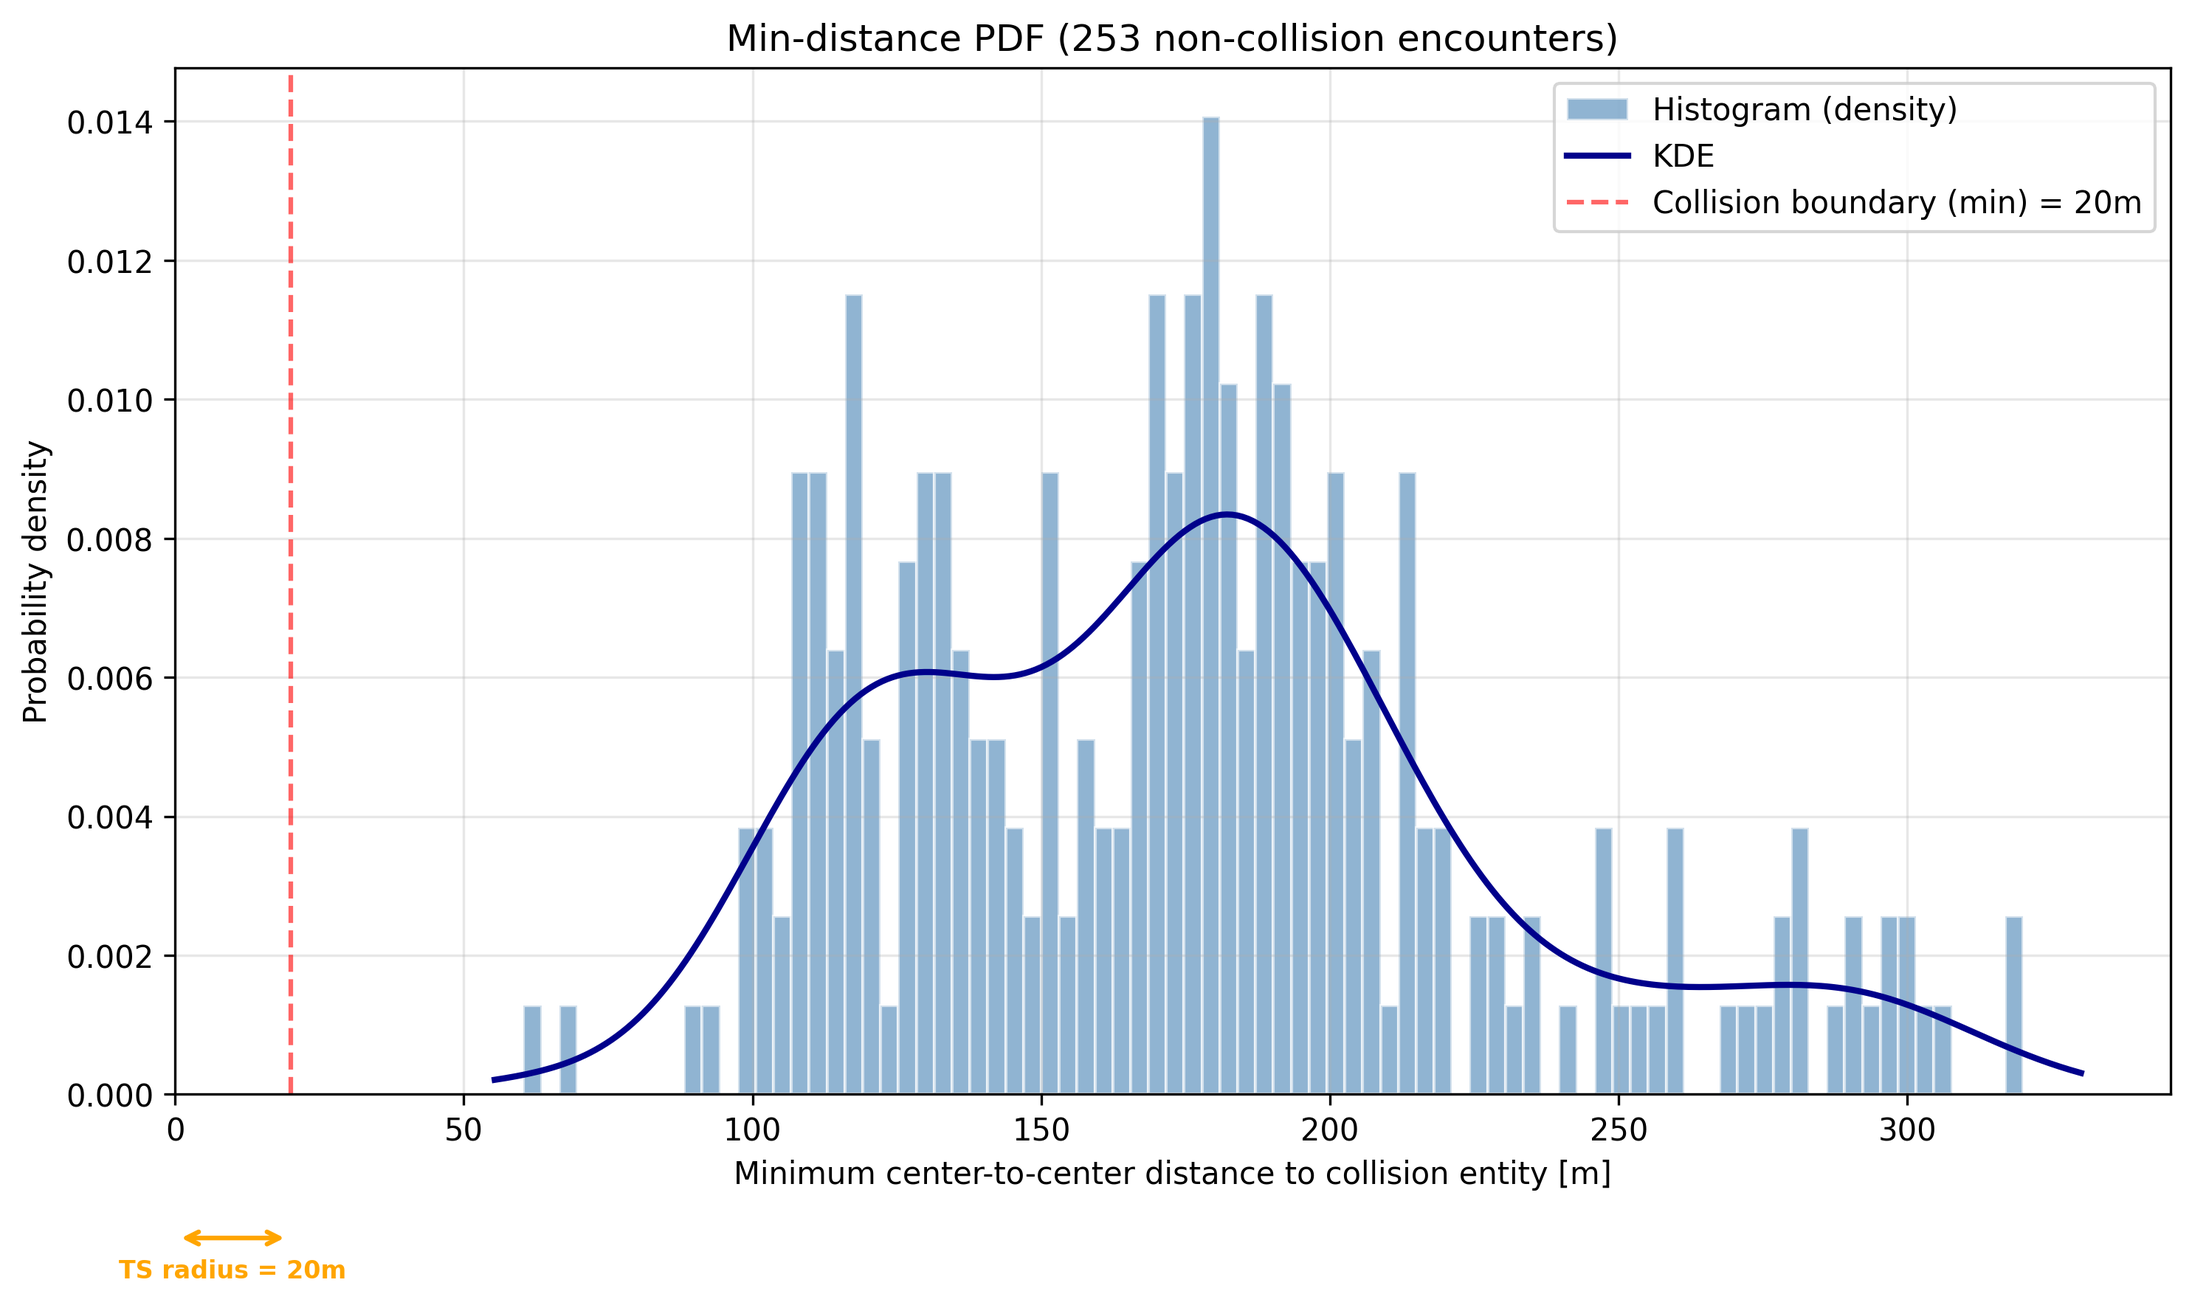
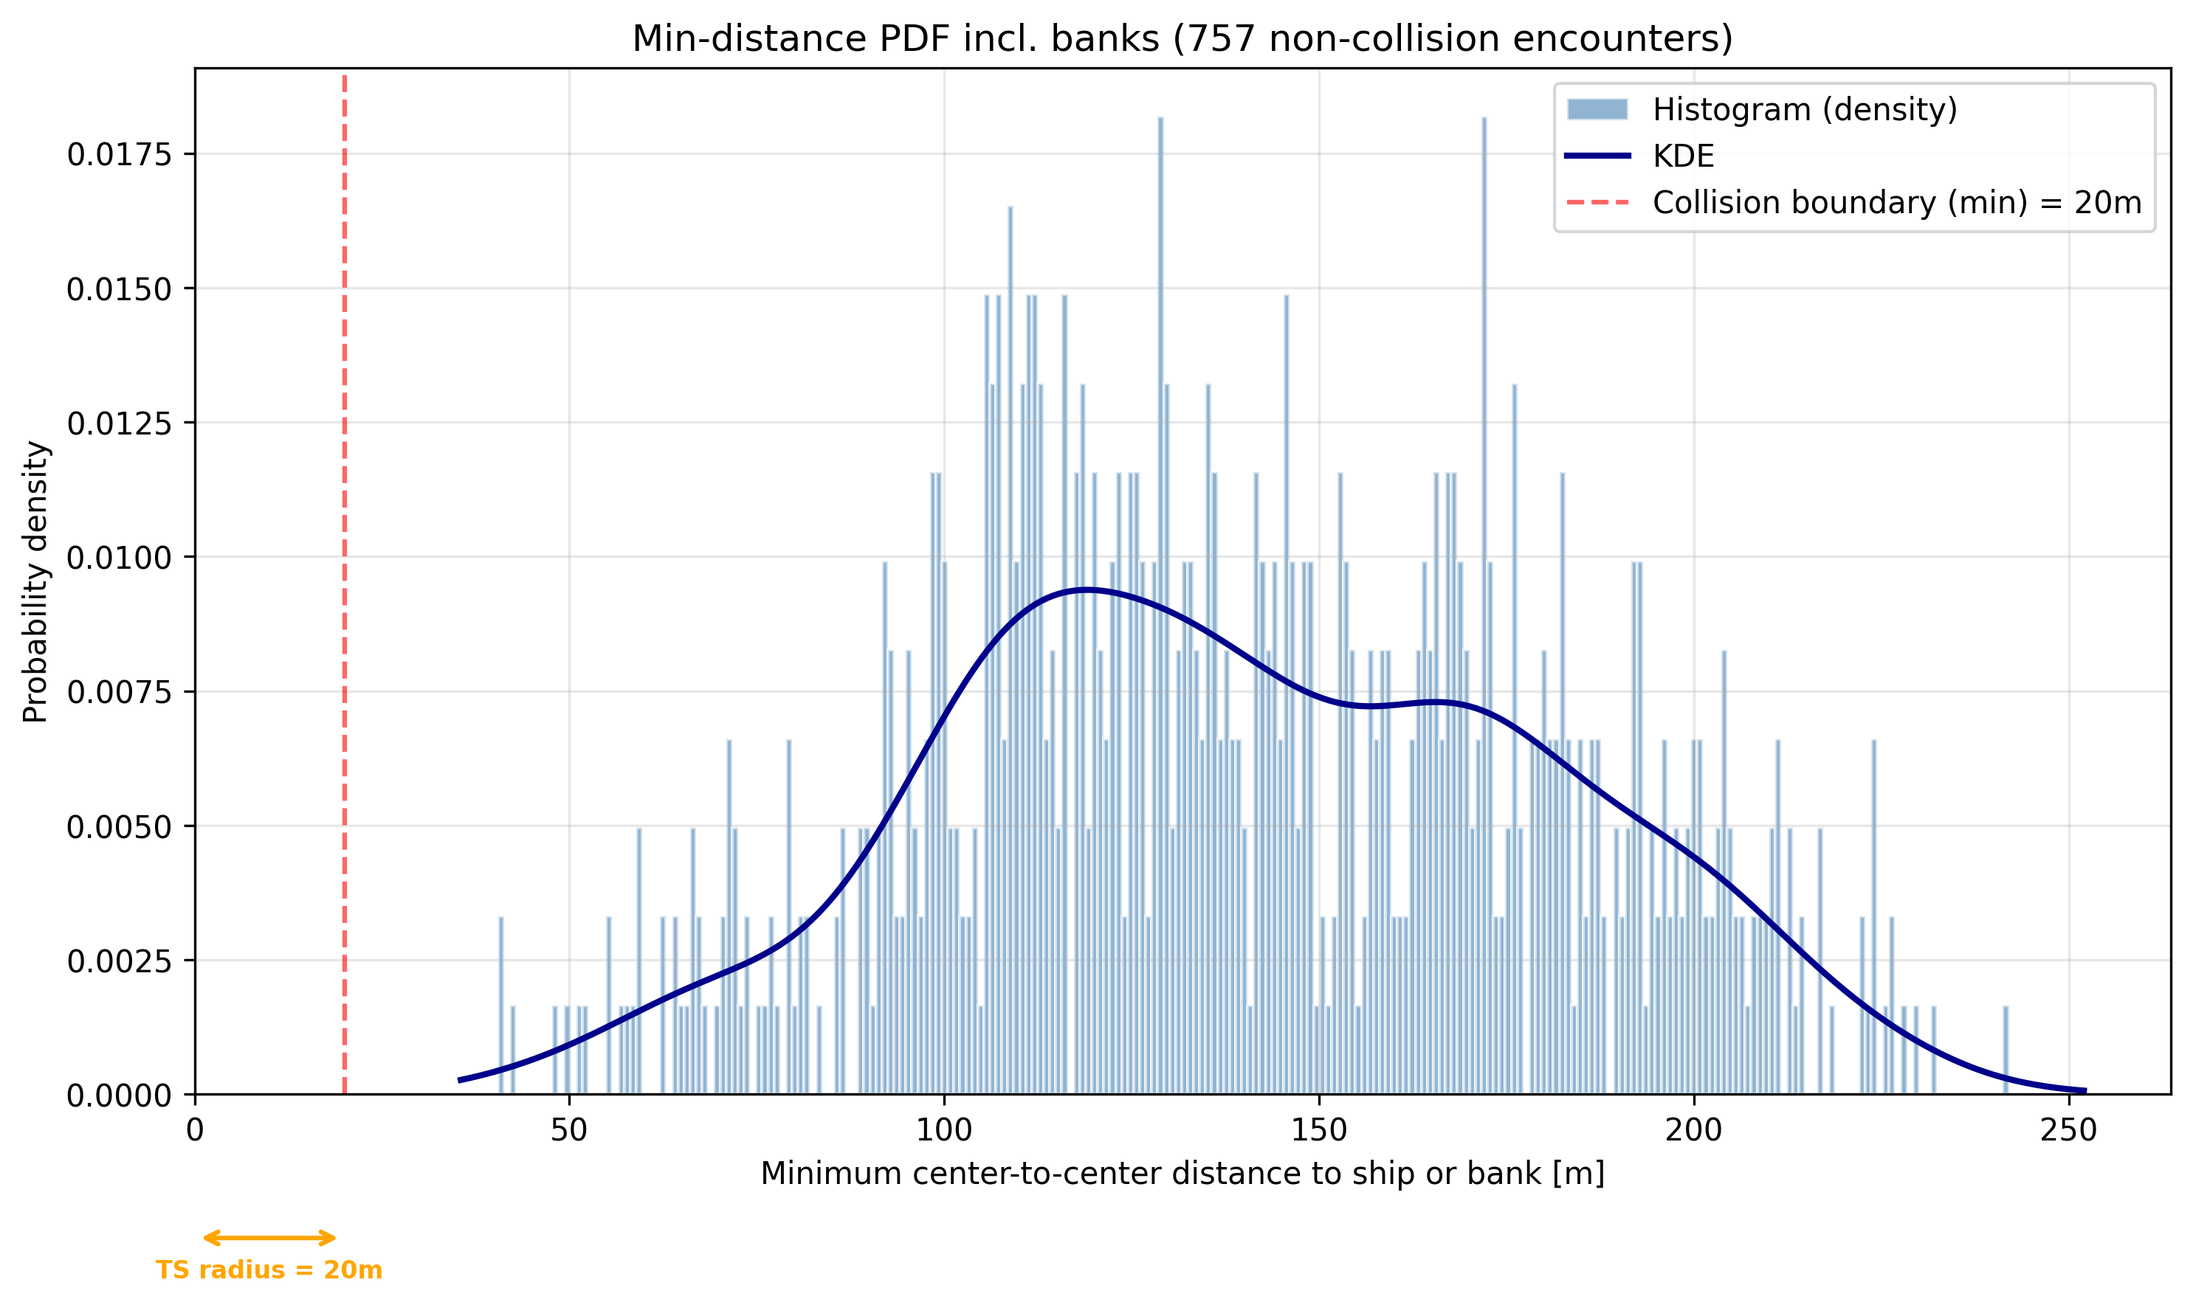
added trajectory visualization at encounter

diff --git a/src/fw/environments/py_sim_colav_base.py b/src/fw/environments/py_sim_colav_base.py
@@ -31,6 +31,7 @@ from typing import Optional, Tuple, Dict
 from fw.ships.ship_factory import ShipModel
 from fw.dynamics.dynamics_model import Model
 import numpy as np
+from shapely.geometry import Point
 
 
 # -----------------------
@@ -89,6 +90,7 @@ class PySimColavBaseEnv(PySimEnv):
             wind: bool = False,
             current: bool = False,
             numerical_damping: bool = False,
+            minimal_path_render: bool = False,
             # COLAV configuration
             enable_obstacles: bool = True,
             enable_variable_ship_size: bool = False,
@@ -190,6 +192,7 @@ class PySimColavBaseEnv(PySimEnv):
         # or on episode reset / terminal step if mid-encounter.
         self._in_encounter: bool = False
         self._current_encounter_min_dist: float = float("inf")
+        self._current_encounter_min_dist_bank: float = float("inf")
         self._current_encounter_collided: bool = False
 
         self._last_collision_info = {}
@@ -240,6 +243,7 @@ class PySimColavBaseEnv(PySimEnv):
             wind=wind,
             current=current,
             numerical_damping=numerical_damping,
+            minimal_path_render=minimal_path_render,
         )
 
         # Scenario builder
@@ -374,6 +378,12 @@ class PySimColavBaseEnv(PySimEnv):
                     self._current_episode_min_dist = dist
                 if self._in_encounter and dist < self._current_encounter_min_dist:
                     self._current_encounter_min_dist = dist
+
+        # Track minimum distance to bank (polygon boundary) within an encounter.
+        if self._in_encounter and getattr(self, "polygon_shape", None) is not None:
+            d_bank = float(self.polygon_shape.boundary.distance(Point(self.ship_pos)))
+            if d_bank < self._current_encounter_min_dist_bank:
+                self._current_encounter_min_dist_bank = d_bank
 
         # Post-entity-step hook (subclass: e.g. rebuild polar geometries)
         self._on_entities_stepped()
@@ -546,6 +556,7 @@ class PySimColavBaseEnv(PySimEnv):
         # still False); we begin accumulating from the next step.
         self._in_encounter = True
         self._current_encounter_min_dist = float("inf")
+        self._current_encounter_min_dist_bank = float("inf")
         self._current_encounter_collided = False
 
         # Always record the encounter start so n_encounters is correct.
@@ -557,6 +568,7 @@ class PySimColavBaseEnv(PySimEnv):
             "gt": gt_ext,
             "pred": pred_ext,
             "min_dist": float("inf"),
+            "min_dist_bank": float("inf"),
             "collided": False,
         })
 
@@ -567,9 +579,11 @@ class PySimColavBaseEnv(PySimEnv):
             return
         rec = self._episode_encounters[-1]
         rec["min_dist"] = float(self._current_encounter_min_dist)
+        rec["min_dist_bank"] = float(self._current_encounter_min_dist_bank)
         rec["collided"] = bool(self._current_encounter_collided)
         self._in_encounter = False
         self._current_encounter_min_dist = float("inf")
+        self._current_encounter_min_dist_bank = float("inf")
         self._current_encounter_collided = False
 
     # ---------------------------
@@ -991,16 +1005,25 @@ class PySimColavBaseEnv(PySimEnv):
             mid_x = (os_p[0] + ts_p[0]) / 2.0
             mid_y = (os_p[1] + ts_p[1]) / 2.0
             dist_text = self.ax.text(
-                mid_x, mid_y, f"{dist:.0f}m", fontsize=7, color='gray',
+                mid_x, mid_y, f"{dist:.0f}m", fontsize=12, color='gray',
                 fontweight='bold', ha='center', va='bottom', zorder=6,
             )
-            os_label = self.ax.text(
-                os_p[0] + 2, os_p[1] + 2, "OS", fontsize=7, color='blue',
-                fontweight='bold', ha='center', va='top', zorder=6,
+            kind = snap.get("kind", "passed")
+            tag = "Start" if kind == "start" else "Passed"
+            # Place labels fully below the marker circles (markersize=12 ->
+            # ~6pt radius; offset in points via xytext keeps it consistent
+            # regardless of axis scale).
+            os_label = self.ax.annotate(
+                f"{tag}", xy=(os_p[0], os_p[1]),
+                xytext=(0, -10), textcoords='offset points',
+                fontsize=12, color='blue',
+                ha='center', va='top', zorder=6,
             )
-            ts_label = self.ax.text(
-                ts_p[0] + 2, ts_p[1] + 2, "TS", fontsize=7, color='red',
-                fontweight='bold', ha='center', va='top', zorder=6,
+            ts_label = self.ax.annotate(
+                f"{tag}", xy=(ts_p[0], ts_p[1]),
+                xytext=(0, -10), textcoords='offset points',
+                fontsize=12, color='red',
+                ha='center', va='top', zorder=6,
             )
             self._passing_snapshot_artists.append(
                 (os_marker, ts_marker, dist_line, dist_text, os_label, ts_label)

diff --git a/src/fw/environments/py_sim_colav_env.py b/src/fw/environments/py_sim_colav_env.py
@@ -67,6 +67,7 @@ class PySimColavPolarEnv(PySimColavBaseEnv):
             pathfollowing_encounter_steps: int = 75,
             skip_tail_segments: int = 10,
             random_segment_start: bool = True,
+            minimal_path_render: bool = False,
             **kwargs,
     ) -> None:
         # Polar scan configuration
@@ -142,6 +143,7 @@ class PySimColavPolarEnv(PySimColavBaseEnv):
             obstacle_weights=obstacle_weights,
             scenario_obstacle_level=scenario_obstacle_level,
             ground_truth_classification=ground_truth_classification,
+            minimal_path_render=minimal_path_render,
         )
 
         self.polar_scan_cached = None
@@ -480,12 +482,24 @@ class PySimColavPolarEnv(PySimColavBaseEnv):
         if (
             self.ts_idx is not None
             and self.ts_idx < len(self.collision_entities)
-            and clf.label in ("head-on", "crossing-right")
+            and clf.label in ("head-on", "crossing-right", "overtaking")
         ):
             ts = self.collision_entities[self.ts_idx]
             os_pos_now = self.ship_pos
             ts_pos_now = ts.get_position()
             signal = ts.passing_signal(os_pos_now, clf.label)
+
+            # Encounter-start snapshot (first step we observe this TS in a
+            # tracked encounter scenario).
+            if self._prev_passing_ts_idx != self.ts_idx:
+                self._passing_snapshots.append({
+                    "os_pos": np.asarray(os_pos_now, dtype=np.float32),
+                    "ts_pos": np.asarray(ts_pos_now, dtype=np.float32),
+                    "dist": float(np.linalg.norm(os_pos_now - ts_pos_now)),
+                    "scenario": clf.label,
+                    "kind": "start",
+                })
+
             prev = self._prev_passing_signal
             if (
                 prev is not None
@@ -507,6 +521,7 @@ class PySimColavPolarEnv(PySimColavBaseEnv):
                     "ts_pos": np.asarray(ts_at, dtype=np.float32),
                     "dist": float(np.linalg.norm(os_at - ts_at)),
                     "scenario": clf.label,
+                    "kind": "passed",
                 })
             self._prev_passing_signal = signal
             self._prev_passing_ts_idx = self.ts_idx
@@ -568,6 +583,22 @@ class PySimColavPolarEnv(PySimColavBaseEnv):
                 )
                 self.polar_beams.append(beam_line)
 
+        # Override the legend with a curated, fixed set of entries (proxy
+        # artists, so they don't depend on which artists got auto-labeled).
+        from matplotlib.lines import Line2D
+        legend_handles = [
+            Line2D([0], [0], marker='o', color='none', markerfacecolor='blue',
+                   markersize=8, label='Own ship'),
+            Line2D([0], [0], marker='o', color='none', markerfacecolor='red',
+                   markersize=8, label='Target ship'),
+            Line2D([0], [0], color='green', alpha=0.2, linewidth=1.0,
+                   label='Path'),
+            Line2D([0], [0], color='blue', linewidth=1.5, label='OS trajectory'),
+            Line2D([0], [0], color='red', linewidth=1.5, linestyle='--',
+                   label='TS trajectory'),
+        ]
+        self.ax.legend(handles=legend_handles, loc='best')
+
     def _render_subclass(self, heading: float) -> None:
         """Update polar beam rendering."""
         if self.use_polar_scan and getattr(self, "polar_beams", None):
@@ -601,9 +632,12 @@ class PySimColavPolarEnv(PySimColavBaseEnv):
         self,
         pdf_save_path: str = "min_distance_PDF.png",
         boxplot_save_path: str = "min_distance_boxplots.png",
+        include_banks: bool = True,
     ) -> None:
         from fw.collision_avoidance.colav_statistics import plot_min_distance_stats
-        plot_min_distance_stats(self, pdf_save_path, boxplot_save_path)
+        plot_min_distance_stats(
+            self, pdf_save_path, boxplot_save_path, include_banks=include_banks
+        )
 
     def plot_scenario_confusion_matrix(
         self,

diff --git a/src/fw/environments/py_sim_env.py b/src/fw/environments/py_sim_env.py
@@ -123,6 +123,7 @@ class PySimEnv(BaseEnv):
             wind: bool = False,
             current: bool = False,
             numerical_damping: bool = False,
+            minimal_path_render: bool = False,
     ) -> None:
         """
         Initialize the ship navigation environment.
@@ -146,6 +147,7 @@ class PySimEnv(BaseEnv):
         # Core parameters
         self.wind = bool(wind)
         self.current = bool(current)
+        self.minimal_path_render = bool(minimal_path_render)
         self.start_pos = start_pos
         self.ship_model = ship_model
         self.max_steps = int(max_steps)
@@ -1299,21 +1301,30 @@ class PySimEnv(BaseEnv):
         # Path: start with ship_pos followed by checkpoints and target
         path_points = [self.ship_pos] + [cp['pos'] for cp in self.checkpoints] + [self.target_pos]
 
-        for i in range(len(path_points) - 1):
-            start_point = path_points[i]
-            end_point = path_points[i + 1]
-            # label only the first segment to avoid duplicate legend entries
-            self.ax.plot([start_point[0], end_point[0]], [start_point[1], end_point[1]],
-                         'g-', label='Path' if i == 0 else "")
+        if getattr(self, "minimal_path_render", False):
+            print("minimal path render")
+            # Faint single-line path only — no checkpoint circles, no perp lines.
+            xs = [p[0] for p in path_points]
+            ys = [p[1] for p in path_points]
+            self.ax.plot(xs, ys, color='green', alpha=0.2,
+                         linewidth=1.0, label='Path')
+        else:
+            print("no minimal path render")
+            for i in range(len(path_points) - 1):
+                start_point = path_points[i]
+                end_point = path_points[i + 1]
+                # label only the first segment to avoid duplicate legend entries
+                self.ax.plot([start_point[0], end_point[0]], [start_point[1], end_point[1]],
+                             'g-', label='Path' if i == 0 else "")
 
-        # Draw checkpoint patches and perpendicular lines
-        for i, checkpoint in enumerate(self.checkpoints):
-            circle = patches.Circle((checkpoint['pos'][0], checkpoint['pos'][1]),
-                                    10.0, color='black', alpha=0.3)
-            self.ax.add_patch(circle)
-            start_point, end_point = checkpoint['perpendicular_line']
-            self.ax.plot([start_point[0], end_point[0]], [start_point[1], end_point[1]],
-                         'g-', label='PerpLine' if i == 0 else "")
+            # Draw checkpoint patches and perpendicular lines
+            for i, checkpoint in enumerate(self.checkpoints):
+                circle = patches.Circle((checkpoint['pos'][0], checkpoint['pos'][1]),
+                                        10.0, color='black', alpha=0.3)
+                self.ax.add_patch(circle)
+                start_point, end_point = checkpoint['perpendicular_line']
+                self.ax.plot([start_point[0], end_point[0]], [start_point[1], end_point[1]],
+                             'g-', label='PerpLine' if i == 0 else "")
 
         # Draw polygons for environment outlines
         polygon_patch = patches.Polygon(self.obstacles, closed=True, edgecolor='r',

diff --git a/src/fw/collision_avoidance/colav_statistics.py b/src/fw/collision_avoidance/colav_statistics.py
@@ -17,6 +17,7 @@ def plot_min_distance_stats(
     env,
     pdf_save_path: str = "min_distance_PDF.png",
     boxplot_save_path: str = "min_distance_boxplots.png",
+    include_banks: bool = False,
 ) -> None:
     """Plot encounter-level min-distance statistics.
 
@@ -25,6 +26,11 @@ def plot_min_distance_stats(
         aggregated across all non-collision encounters (no per-policy split).
       * ``boxplot_save_path`` — per-policy/scenario boxplots of the same
         min-distance values, bucketed by the encounter's ground-truth label.
+
+    When ``include_banks`` is True, the per-encounter distance is the minimum
+    of the closest target-ship distance and the closest distance to the bank
+    (polygon boundary) observed during the encounter; otherwise only
+    target-ship distance is used.
 
     Only encounters that did not end in collision are included.
     """
@@ -39,6 +45,8 @@ def plot_min_distance_stats(
     all_distances: list[float] = []
     for enc in encounters:
         md = enc.get("min_dist", float("inf"))
+        if include_banks:
+            md = min(md, enc.get("min_dist_bank", float("inf")))
         if enc.get("collided", False) or md is None or md == float("inf"):
             continue
         gt = enc.get("gt") or "unknown"
@@ -61,6 +69,7 @@ def plot_min_distance_stats(
         os_r, ts_r_min, ts_r_max, variable_ts,
         collision_dist_min, collision_dist_max,
         pdf_save_path,
+        include_banks=include_banks,
     )
     _plot_min_distance_boxplots(
         per_policy,
@@ -78,6 +87,7 @@ def _plot_min_distance_pdf(
     collision_dist_min: float,
     collision_dist_max: float,
     save_path: str,
+    include_banks: bool = False,
 ) -> None:
     fig, ax = plt.subplots(figsize=(10, 6))
 
@@ -137,9 +147,14 @@ def _plot_min_distance_pdf(
     ax.set_ylim(bottom=0)
     ax.set_xlim(left=0)
 
-    ax.set_xlabel("Minimum center-to-center distance to collision entity [m]")
+    xlabel_target = "ship or bank" if include_banks else "collision entity"
+    ax.set_xlabel(f"Minimum center-to-center distance to {xlabel_target} [m]")
     ax.set_ylabel("Probability density")
-    ax.set_title(f"Min-distance PDF ({len(distances)} non-collision encounters)")
+    title_suffix = " incl. banks" if include_banks else ""
+    ax.set_title(
+        f"Min-distance PDF{title_suffix} "
+        f"({len(distances)} non-collision encounters)"
+    )
     ax.legend(loc="upper right")
     ax.grid(True, alpha=0.3)
 

diff --git a/src/fw/collision_avoidance/collision_entity.py b/src/fw/collision_avoidance/collision_entity.py
@@ -130,8 +130,8 @@ class CollisionEntity:
 
         crossing-right: lateral offset (cross with TS heading); flips when OS
             crosses the TS heading axis (stern/bow crossing).
-        head-on: longitudinal offset (dot with TS heading); flips when OS
-            passes TS abeam (relative bearing TS->OS = +/-90 deg).
+        head-on / overtaking: longitudinal offset (dot with TS heading); flips
+            when OS passes TS abeam (relative bearing TS->OS = +/-90 deg).
         """
         dx = float(os_pos[0]) - self.x
         dy = float(os_pos[1]) - self.y

diff --git a/src/fw/trainer.py b/src/fw/trainer.py
@@ -199,7 +199,7 @@ class Trainer:
                         other_env_name=policy_name,
                     )
 
-                    self._agent_mgr.visualize_trained_agent(num_episodes=100, live_animation=self._config["live_animation"], airsim_bridge=airsim_bridge)
+                    self._agent_mgr.visualize_trained_agent(num_episodes=300, live_animation=self._config["live_animation"], airsim_bridge=airsim_bridge)
                 except RuntimeError as e:
                     print(f"Could not visualize {gym_env.type_name}. {e}")
         else:

diff --git a/src/fw/config.py b/src/fw/config.py
@@ -160,7 +160,7 @@ CONFIG_PARAMETERS = {
     'scenario': "DDShip_scenario1_nowindnocurrent",
     'ship_model': ShipModel.MYZAKO_DEFAULT,
     'dynamics_model': Model.FOSSEN,
-    'live_animation': False,
+    'live_animation': True,
     # AirSim settings are now in airsim.config.airsim_config
     # Use get_airsim_config() to access them.
 }

diff --git a/src/fw/env_factory.py b/src/fw/env_factory.py
@@ -371,6 +371,7 @@ class MultiPolicyColavEnvironment(BaseEnvironment):
             eval_scenario="crossing-right",
             eval_obstacle_count=1,
             include_scenario_one_hot=True,
+            minimal_path_render=True
         )
 
 
